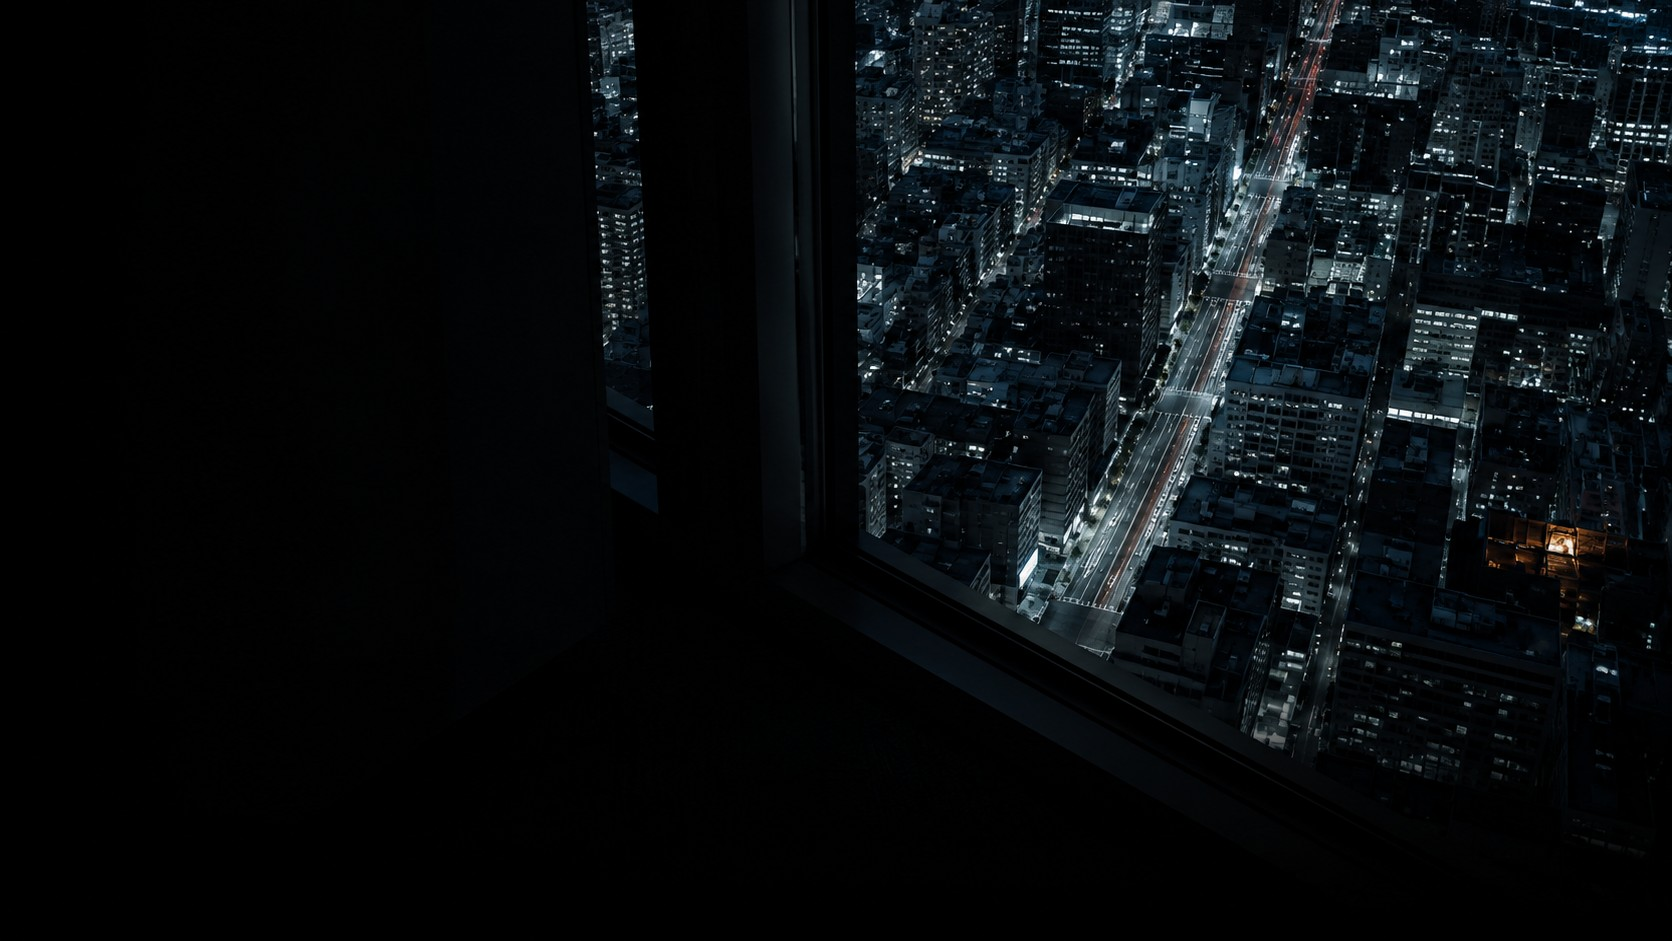
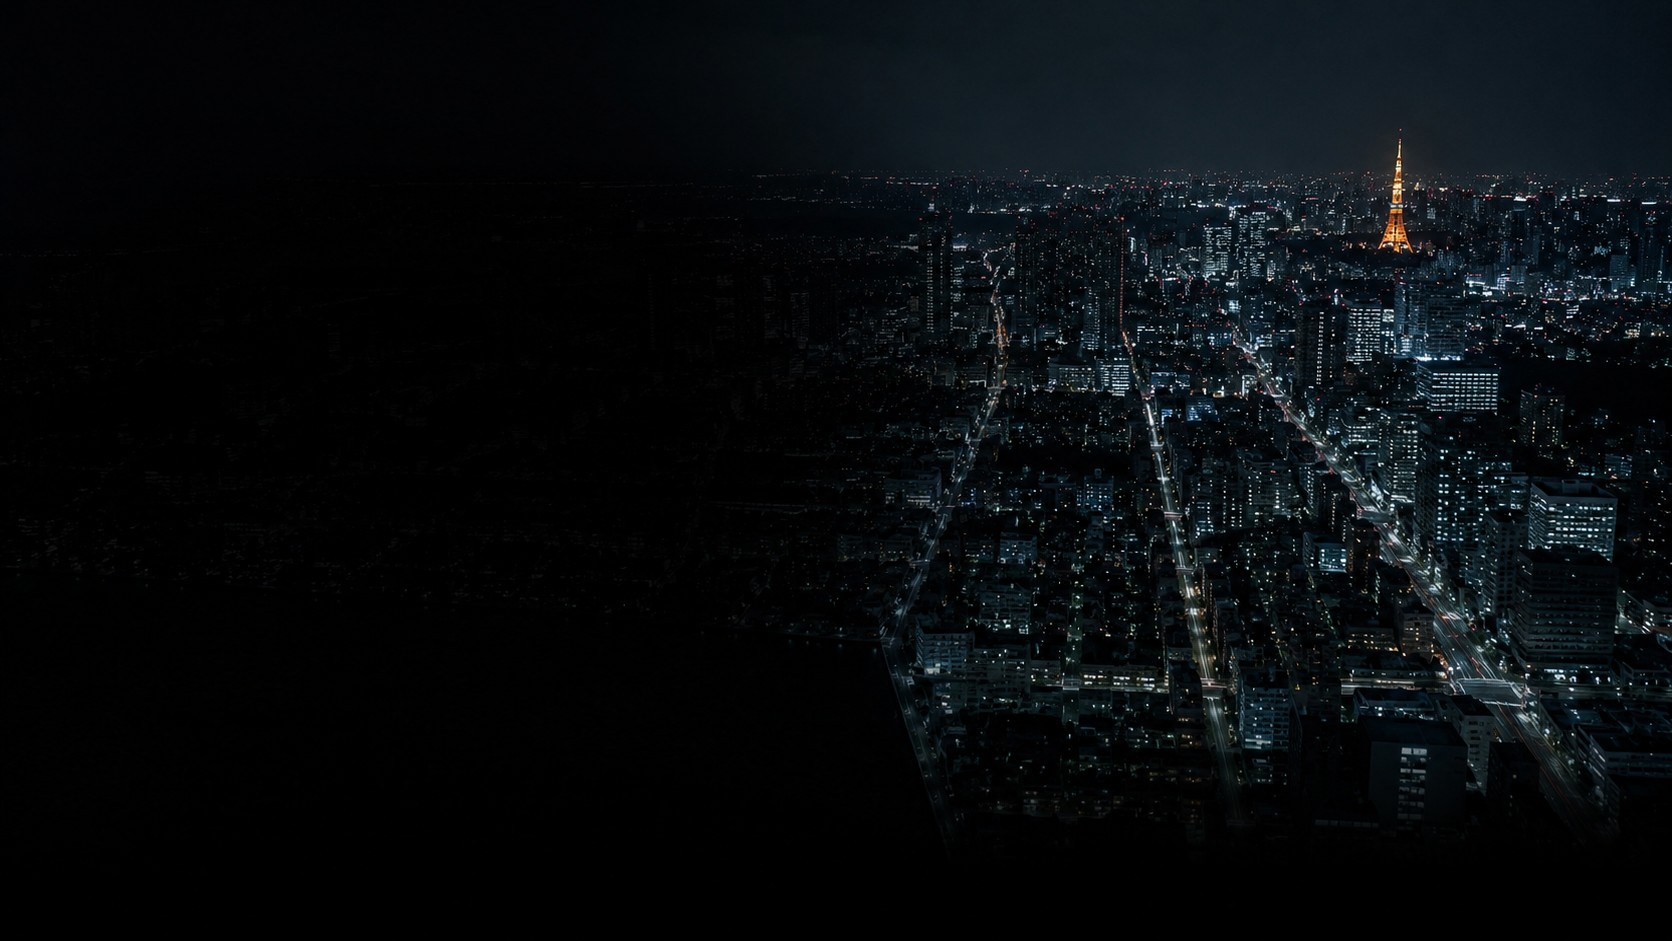
Add files via upload

Changed region(s): [[0.4976, 0.0, 1.0, 0.8321], [0.3421, 0.0, 0.4043, 0.4315], [0.3732, 0.4315, 0.4043, 0.4623]]

diff --git a/company.html b/company.html
@@ -136,7 +136,7 @@
       <span class="eyebrow">PEOPLE</span>
       <h2 class="display display--sm">MEMBER</h2>
     </div>
-    <p class="lead" data-r data-delay="60">還元率90%は制度ではなく運用です。誰がどの判断に責任を持っているかを公開します。</p>
+    <p class="lead" data-r data-delay="60">技術・事業・AI・マーケティング、各分野のプロフェッショナルが揃っています。<br>このメンバーだから、9割還元が実現できます。</p>
 
     <!-- 申し送り：メンバーを追加するときは <article class="member"> ブロックを複製し、
          写真は 3:4（600x800）で assets/ に置いてください。
@@ -166,7 +166,7 @@
       </article>
 
       <article class="member">
-        <div class="member__photo"><span class="bg bg--hero-lines"></span><span class="member__soon">COMING SOON</span></div>
+        <div class="member__photo"><img src="assets/member-03.jpg" alt="プロジェクトエグゼクティブの堀江誠二" width="600" height="800" decoding="async" loading="lazy"></div>
         <div>
           <span class="member__role">プロジェクトエグゼクティブ</span>
           <h3>堀江 誠二</h3>
@@ -181,9 +181,10 @@
         <div>
           <span class="member__role">AIプロダクト開発責任者</span>
           <h3>石橋 太樹</h3>
-          <p>茨城大学大学院修了。自社サービスを開発する事業会社で2年間、プロダクト開発に従事したのち当社へ入社。</p>
-          <p>AIプロダクト開発責任者として、生成AIを組み込んだプロダクトの開発を統括。既製のAPIを呼ぶだけの実装ではなく、業務の手順そのものを分解し、どこを機械に任せ、どこを人が判断するかを設計する段階から関わる。精度が出ない部分を無理に自動化せず、人が確認する工程として残す判断も含めて設計している。</p>
-          <p>同じ考え方を社内の開発フローにも適用。見積り、実装、レビューの各工程で扱える情報量を増やし、少人数のチームが引き受けられる案件の規模を押し上げている。</p>
+          <p>茨城大学大学院修了。プロダクト開発事業会社にてソフトウェア開発に従事した後、当社へ入社。</p>
+          <p>現在はAIプロダクト開発責任者として、生成AI・AI技術を活用した社内業務基盤および社外向けAIサービスの企画・設計・開発を統括。業務プロセスを構造化・分解し、AIが担う領域と人が担うべき領域を再定義することで、従来の業務モデルそのものを変革。AIによる自動化・高度化と人材の専門性を組み合わせ、少人数で高い生産性と品質を実現する業務モデルを構築している。</p>
+          <p>また、社外向けサービスにおいては、顧客ごとの業務課題や潜在ニーズを的確に捉え、AIを単なる業務効率化ツールとしてではなく、事業成長を支えるプロダクトへ落とし込むオーダーメイド開発を強みとする。</p>
+          <p>AI技術と業務設計、プロダクト開発を横断し、「AIを導入する」だけに留まらず、AIを前提とした新たな業務・事業モデルの設計から実装までを一気通貫で担っている。</p>
         </div>
       </article>
 
@@ -192,9 +193,9 @@
         <div>
           <span class="member__role">DX・マーケティング統括責任者</span>
           <h3>黒川 和真</h3>
-          <p>宮崎大学卒業。事業会社にてSNSマーケティングの責任者を2年間務め、運用体制の設計から効果測定、改善サイクルの構築までを統括したのち当社へ入社。</p>
-          <p>DX・マーケティング統括責任者として、社内業務のデジタル化と対外発信の双方に責任を持つ。見積り、設計、レビュー、ドキュメント作成の各工程に生成AIを組み込み、どの工程がどれだけ短縮できたかを計測しながら運用を調整。導入して終わらせず、回り続ける状態に保つことを役割としている。</p>
-          <p>人を増やして対応量を増やすのではなく、一人あたりが扱える範囲を広げる方向に投資する。会社の取り分を1割に抑えたまま運営できているのは、この積み上げが前提にある。</p>
+          <p>宮崎大学卒業。事業会社にてSNSマーケティング責任者を務め、運用体制の構築から効果測定、改善までを統括した後、当社へ入社。</p>
+          <p>現在はDX・マーケティング統括責任者として、社内業務のデジタル変革と対外マーケティングを統括。見積り、設計、レビュー、ドキュメント作成などの各工程に生成AIを組み込み、効果を定量的に検証しながら業務プロセスそのものを再設計している。</p>
+          <p>人員を増やすのではなく、一人あたりの生産性と対応領域を最大化する組織づくりを推進。AIを単なる効率化ツールではなく、事業成長を支える経営基盤として活用している。</p>
         </div>
       </article>
 

diff --git a/style.css b/style.css
@@ -161,20 +161,10 @@ img { max-width: 100%; }
 
 /* 写真自体が暗いため、スクリムは以前より弱めている。
    これ以上強くすると被写体が潰れ、弱くすると文字のコントラストが落ちる。 */
+/* 下端はリード文とボタンが乗るため強めに沈める。
+   現在のヒーロー写真では、ここを .62 に緩めるとボタンが 6.6:1 まで落ちる。 */
 .scrim--bottom {
-  background: linear-gradient(180deg, rgba(0, 0, 0, .18) 0%, rgba(0, 0, 0, 0) 38%, rgba(0, 0, 0, .62) 100%);
-}
-
-/* 見出しは左側に置くため、写真の左だけを沈める。
-   42% までは .86 で一定に保ち、そこから 68% でゼロに戻す。
-   単純な 0%→68% のグラデーションでは駄目。写真の 34〜38% の位置に
-   窓枠の隙間から街の明かりが差す細い帯があり、そこが「ENGINEERS」の
-   行末と重なって 3.3:1 まで落ちる（実測値）。平坦部で潰している。 */
-.scrim--hero-left {
-  background: linear-gradient(90deg,
-    rgba(0, 0, 0, .86) 0%,
-    rgba(0, 0, 0, .86) 42%,
-    rgba(0, 0, 0, 0) 68%);
+  background: linear-gradient(180deg, rgba(0, 0, 0, .18) 0%, rgba(0, 0, 0, 0) 38%, rgba(0, 0, 0, .72) 100%);
 }
 
 .bg--model { background: radial-gradient(110% 75% at 50% 42%, #101c28 0%, #05070a 72%); }

diff --git a/index.html b/index.html
@@ -56,9 +56,8 @@
 
   <section class="hero" id="top">
     <div class="bg bg--hero"></div>
-    <img class="bg bg--photo" src="assets/hero-night.jpg" alt="高層階の窓から見下ろした夜の街。眼下に街路と建物の明かりが広がっている" width="1672" height="941" decoding="async" fetchpriority="high" data-fade>
+    <img class="bg bg--photo" src="assets/hero-night.jpg" alt="高層階から見下ろした夜の東京。右奥に東京タワーが灯り、眼下に街路と建物の明かりが広がっている" width="1672" height="941" decoding="async" fetchpriority="high" data-fade>
     <div class="bg bg--hero-lines"></div>
-    <div class="scrim scrim--hero-left"></div>
     <div class="scrim scrim--bottom"></div>
     <div class="hero__body wrap">
       <div>

diff --git a/news.html b/news.html
@@ -140,7 +140,7 @@
   <section class="section section--panel wrap" id="movie">
     <div class="section-head" data-r>
       <span class="eyebrow">OFFICIAL CHANNEL</span>
-      <h2 class="display display--sm">MOVIE</h2>
+      <h2 class="display display--sm">VIDEO</h2>
     </div>
     <p class="lead" data-r data-delay="60">公式チャンネル「SESは還元率で決まる【VALORISE】」で公開した動画です。毎週金曜19時に更新しています。</p>
 
